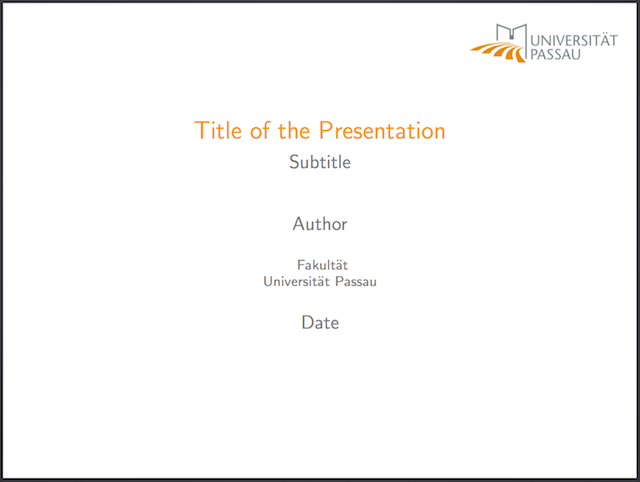
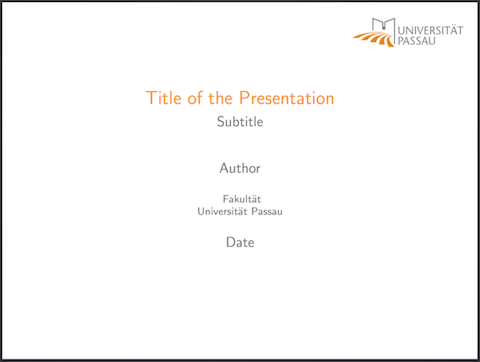
smaller screenshots

diff --git a/README.md b/README.md
@@ -2,9 +2,9 @@
 
 ####Screenshots
 
-![Title Page](https://github.com/Daeinar/beamer-uni-passau/blob/master/screenshot1.png?raw=true "Title Page")
-![Slide 1](https://github.com/Daeinar/beamer-uni-passau/blob/master/screenshot2.png?raw=true "Slide 1")
-![Slide 2](https://github.com/Daeinar/beamer-uni-passau/blob/master/screenshot3.png?raw=true "Slide 2")
+<div align="center">![Title Page](https://github.com/Daeinar/beamer-uni-passau/blob/master/screenshot1.png?raw=true "Title Page")</div>
+<div align="center">![Slide 1](https://github.com/Daeinar/beamer-uni-passau/blob/master/screenshot2.png?raw=true "Slide 1")</div>
+<div align="center">![Slide 2](https://github.com/Daeinar/beamer-uni-passau/blob/master/screenshot3.png?raw=true "Slide 2")</div>
 
 ####Usage
 Copy `beamerthemeunipassau.sty` and `beamerouterthemeunipassau.sty` to the folder containing your main slide file. Then include the style by adding
